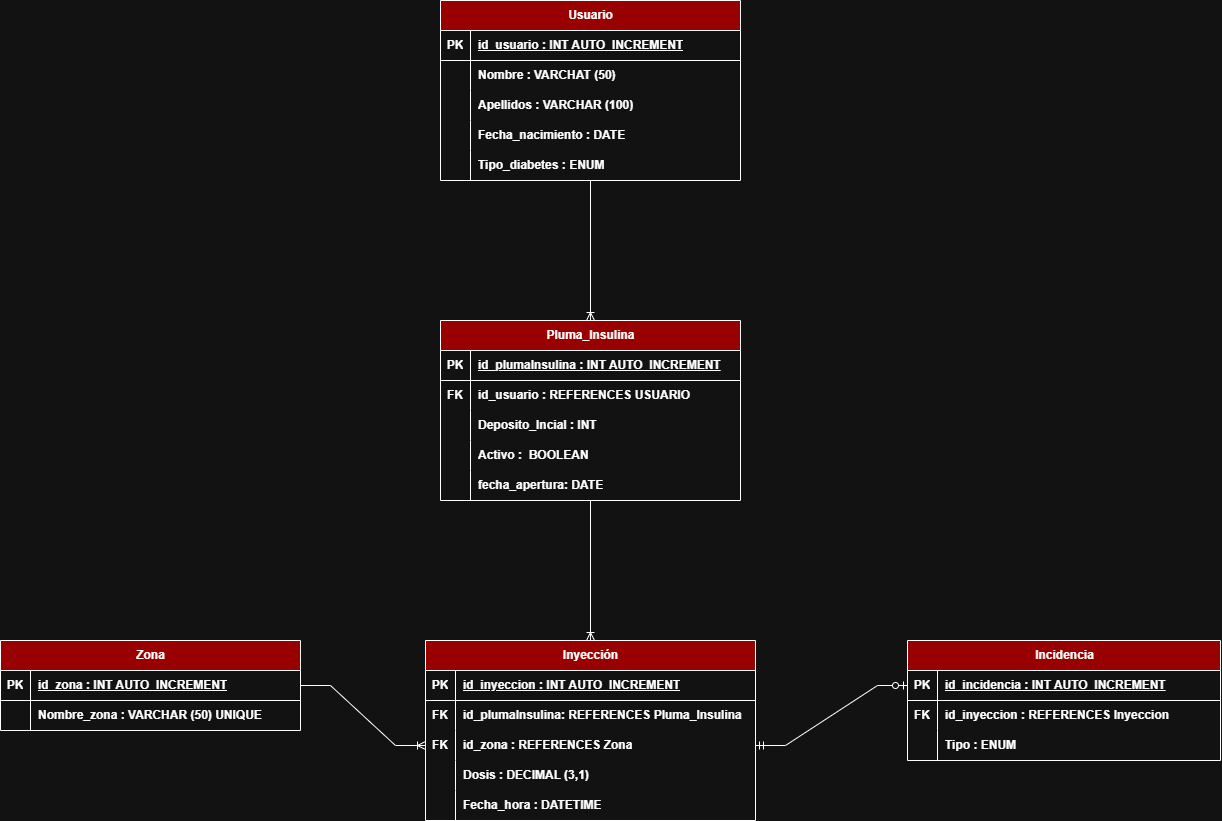
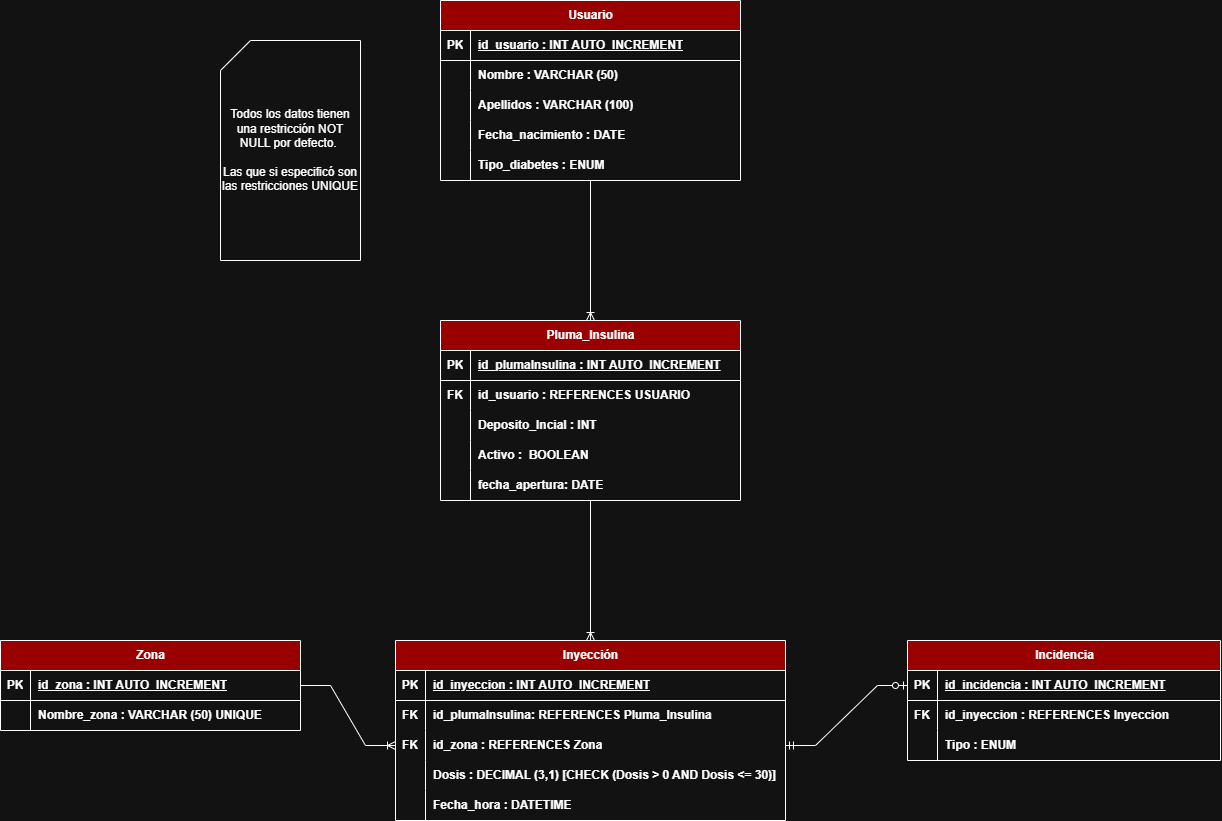
Corregidas comillas y erratas para muestra img en .md 😅

diff --git a/src/main/java/org/example/myinsuapp/model/entity/Zona.java b/src/main/java/org/example/myinsuapp/model/entity/Zona.java
@@ -17,11 +17,5 @@ public class Zona {
         return zonaCuerpo;
     }
 
-    public void setIdZona(int idZona) {
-        this.idZona = idZona;
-    }
 
-    public void setZonaCuerpo(String zonaCuerpo) {
-        this.zonaCuerpo = zonaCuerpo;
-    }
 }

diff --git a/docs/sistemas/informe_tecnico.md b/docs/sistemas/informe_tecnico.md
@@ -36,8 +36,8 @@ Siendo realista con el proyecto (se ejecuta en la maquina virtual de Java y tien
 *   **Recomendada:** 8 GB. Aunque el consumo de la aplicación y la base de datos es bajo, tener 8 GB garantiza que el sistema operativo trabaje totalmente holgado, evitando cualquier tipo de lag al renderizar las pantallas o procesar las consultas SQL del historial o el informe.
 
 **Almacenamiento:**
-*   **Mínimo:** 2 GB libres en disco. Esto cubre la instalación de MariaDB, el JDK de Java 21, el código del proyecto y deja hueco para los primeros datos y logs del sistema.
-*   **Recomendado:** 5 GB o más y disco SSD para acelerar las lecturas de la base de datos, ademas de asegurar espacio suficiente para las exportaciones XML y copias de segridad del historial. 
+*   **Mínimo:** 1 GB libres en disco. Esto cubre la instalación de MariaDB, el JDK de Java 21, el código del proyecto y deja hueco para los primeros datos y logs del sistema.
+*   **Recomendado:** 2 GB y disco SSD para acelerar las lecturas de la base de datos, ademas de asegurar espacio suficiente para las exportaciones XML y copias de segridad del historial. 
 
 **Periféricos:**
 *   Teclado, ratón y un monitor con una resolución estándar (al menos 1366x768) para asegurar que las tablas de datos y la interfaz encajan en pantalla sin recortes y se ven a una resolución adecuada.
@@ -138,7 +138,7 @@ Para validar el despliegue local y el manejo de excepciones, se adjunta en la ca
 
 Adicionalmente adjunto capturas
 
-```markdown
+
 ![Pantalla principal](docs/empleabilidad/captura_inicio.png)
 ![Registro de inyecciones](docs/empleabilidad/captura_registro.png)
 ![Historial](docs/empleabilidad/captura_historial.png)
@@ -146,7 +146,6 @@ Adicionalmente adjunto capturas
 ![Grafico Uso](docs/empleabilidad/captura_grafico_1.png)
 ![Gráfico de Estado](docs/empleabilidad/captura_grafico2.png)
 
-```
 
 ### 8. Esquema de funcionamiento
 
@@ -164,3 +163,4 @@ F -->|Consultas SQL| G[(MariaDB)]
     H -->|Vista Previa| B
     H -->|Persistencia Física| I[Exportador XML - /docs/xml]
     end
+```

diff --git a/README.md b/README.md
@@ -68,7 +68,6 @@ Y cambiar la línea: `private final int ID_USUARIO_DEMO = 1;` por un `2`.
 
 ## Capturas y video de funcionamiento
 
-```markdown
 ![Pantalla principal](docs/empleabilidad/captura_inicio.png)
 ![Registro de inyecciones](docs/empleabilidad/captura_registro.png)
 ![Historial](docs/empleabilidad/captura_historial.png)
@@ -77,5 +76,6 @@ Y cambiar la línea: `private final int ID_USUARIO_DEMO = 1;` por un `2`.
 ![Gráfico de Estado](docs/empleabilidad/captura_grafico2.png)
 ![Ver vídeo de demostración](docs/sistemas/captura_funcionamiento_y_error.mp4)
 
-```
+
+
 

diff --git a/docs/empleabilidad/04_portfolio_proyecto.md b/docs/empleabilidad/04_portfolio_proyecto.md
@@ -21,7 +21,7 @@ Puedes consultar el código fuente completo, el historial de versiones y la docu
 
 ## Galería de Evidencias
 
-```markdown
+
 ![Pantalla principal](docs/empleabilidad/captura_inicio.png)
 
 ![Registro de inyecciones](docs/empleabilidad/captura_registro.png)
@@ -33,4 +33,3 @@ Puedes consultar el código fuente completo, el historial de versiones y la docu
 ![Grafico Uso](docs/empleabilidad/captura_grafico_1.png)
 
 ![Gráfico de Estado](docs/empleabilidad/captura_grafico2.png)
-```